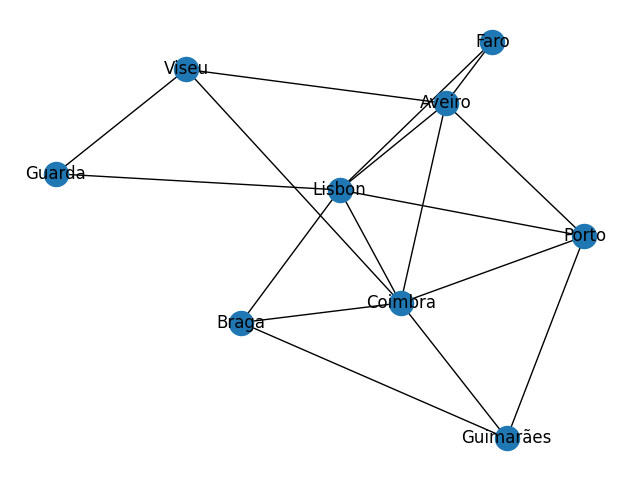
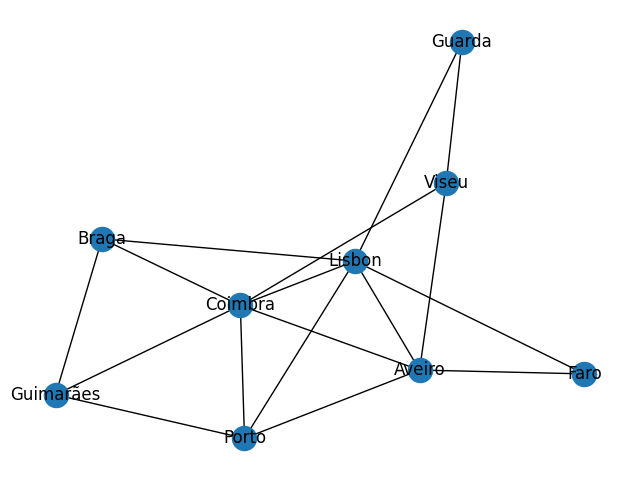
add: path length

diff --git a/ia/map.py b/ia/map.py
@@ -1,9 +1,10 @@
-from typing import Dict, Set
+from typing import Dict, Set, List
 
 import networkx as nx
 
 from ia.place import Place
 from ia.road import Road
+from ia.veichle import Veichle
 
 
 class Map:
@@ -35,6 +36,12 @@ class Map:
             raise Exception("Place not found")
         return ret
 
+    def get_road(self, src:str,dest:str) -> Road:
+        for road in self.roads:
+            if road.src.name == src and road.to.name == dest:
+                return road
+        return nil
+
     def networkx_graph(self):
         """
         converte um mapa para um grafo da biblioteca networkx
@@ -47,8 +54,18 @@ class Map:
             G.add_edge(road.src.name, road.to.name, road=road) # temos a informação sobre as estradas, e esta é mutável
         return G
 
-    def calculate_path(self, src,dest):
-        return nx.shortest_path(self.networkx_graph(), source = src, target=dest,weight=lambda _,_,x: x.road.length/x.road.vel_cap() if x.road.vel_cap() != 0 else 10000000) 
+    def calculate_path(self, src:str,dest:str):
+        print(src)
+        print(self.places.keys())
+        if src not in self.places.keys() or dest not in self.places.keys():
+            raise Exception("source and/or destination not found")
+        return nx.shortest_path(self.networkx_graph(), source = src, target=dest,weight=lambda a,b,x: x["road"].length/x["road"].vel_cap() if x["road"].vel_cap() != 0 else 10000000) 
     
-    
+    def path_length(self,path:List[str]):
+        pairs:Tuple[str,str] = zip(path,path[1:])
+        ret = 0
+        for pair in pairs:
+            road = self.get_road(*pair)
+            ret+=road.length
+        return ret
     # end def

diff --git a/ia/health_planet.py b/ia/health_planet.py
@@ -21,9 +21,8 @@ class HealthPlanet:
             self.wharehouses[place_name] = {"place": place, "products": products}
             for product in products:
                 self.register_product(product)
-            print(self.wharehouses)
         except Exception as e:
-            print(e)
+            print(e,f"in {self}.add_warehouse({place_name, products: set[Product]})")
         finally:
             return
 
@@ -36,14 +35,15 @@ class HealthPlanet:
         ]
     
      
-    def order_product(self, client_place: str, product: Product,ammount:int = 1):
+    def order_product(self, client_place: str, product_name,ammount:int = 1):
         try:
-            place: Place = self.map.get_place(client_place)
-            order_wheight:float = product.weight*ammount
+            self.map.get_place(client_place)
+            # order_wheight:float = product.weight*ammount
+            src = self._wharehouses_with_product(product_name)[0]
+            print(self.map.calculate_path(src.name,client_place))
             
-            print(self.wharehouses)
         except Exception as e:
-            print(e)
+            print(e, f"in {self}.order_product({client_place: str, product_name: str})")
         finally:
             return
         pass

diff --git a/main.py b/main.py
@@ -41,23 +41,22 @@ mapa.add_road(Guarda, Viseu, 45)
 mapa.add_road(Aveiro, Faro, 410)
 
 enterprise = HealthPlanet(mapa)
-# enterprise.add_warehouse("Braga", {Product("Arroz", 1.5)})
-# enterprise.order_products("Faro", {Product("Arroz", 2)})
-# print(enterprise._wharehouses_with_product("Arroz"))
+enterprise.add_warehouse("Braga", {Product("Arroz", 1.5)})
+enterprise.order_product("Faro","Arroz")
+print(enterprise.map.path_length(enterprise.map.calculate_path("Braga", "Porto")))
+# # Define a layout
+# for k,v in nx.get_edge_attributes(G, "road").items():
+#     v.open = not v.open
 
-G = mapa.networkx_graph()
-# Define a layout
-pos = nx.spring_layout(G)
-for k,v in nx.get_edge_attributes(G, "road").items():
-    v.open = not v.open
-
-for k,v in nx.get_edge_attributes(G, "road").items():
-    print(k,":",v.__dict__)
+# for k,v in nx.get_edge_attributes(G, "road").items():
+#     print(k,":",v.__dict__)
     
 # Draw the graph
-# nx.draw(
-#     G,
-#     pos,
-#     with_labels=True,
-# )
-# plt.savefig("mapa.png")
+G = mapa.networkx_graph()
+pos = nx.spring_layout(G)
+nx.draw(
+    G,
+    pos,
+    with_labels=True,
+)
+plt.savefig("mapa.png")
